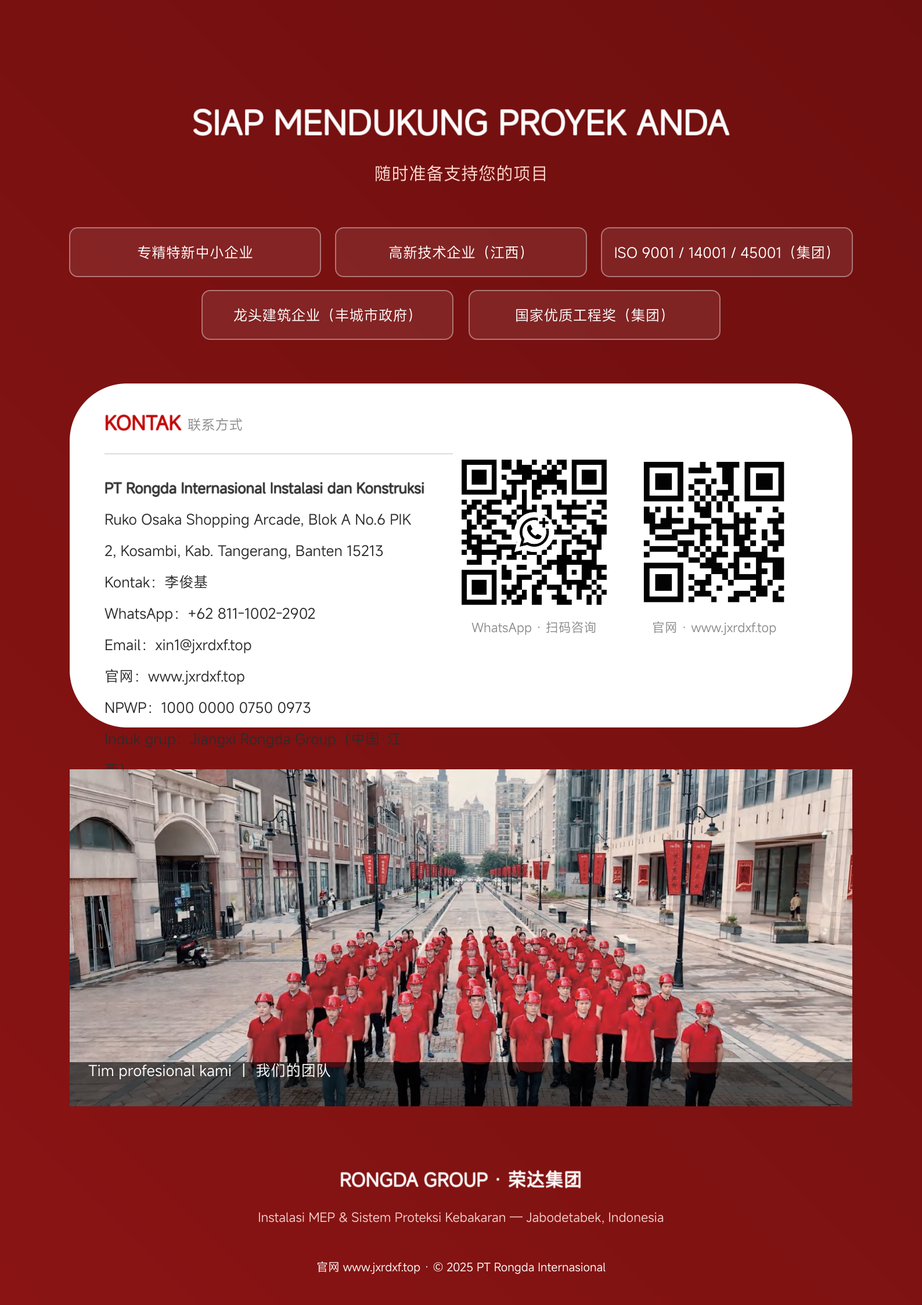
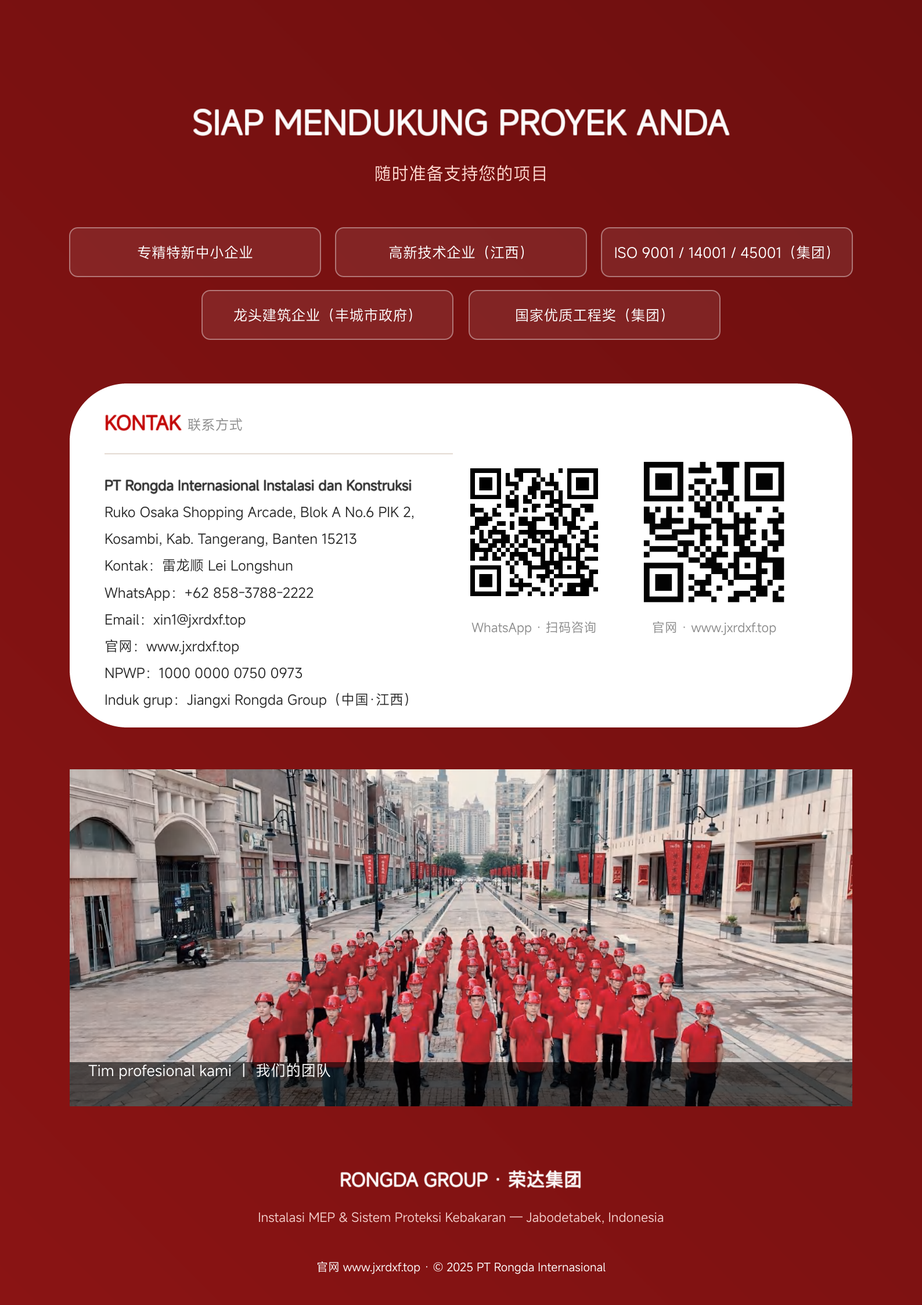
全站双语化（印尼语为主中文为辅）+ 联系人更换雷龙顺 +62 858-3788-2222 + 新WhatsApp二维码

Changed region(s): [[0.0926, 0.3428, 0.4628, 0.5922], [0.4937, 0.3428, 0.6788, 0.4675], [0.3703, 0.5298, 0.4011, 0.561]]

diff --git a/index.html b/index.html
@@ -143,6 +143,8 @@ h2.title{font-size:clamp(22px,3vw,30px);font-weight:800;line-height:1.3}
 h2.title .cn{display:block;font-size:.6em;color:var(--mut);font-weight:600;margin-top:6px;letter-spacing:1px}
 .sec-head{margin-bottom:clamp(30px,4vw,44px)}
 .lead{max-width:720px;color:var(--body);font-size:15px;margin-top:14px}
+/* 双语辅助行：印尼语为主，中文为辅 */
+.bi{display:block;font-size:.86em;color:var(--mut);font-weight:400;margin-top:4px;line-height:1.6}
 
 /* ---------- Tentang ---------- */
 #tentang{background:#fff}
@@ -421,7 +423,7 @@ h2.title .cn{display:block;font-size:.6em;color:var(--mut);font-weight:600;margi
       <a href="#kontak">Kontak 联系</a>
     </nav>
     <button class="menu-btn" id="menuBtn" aria-label="Buka menu" aria-expanded="false"><span></span><span></span><span></span></button>
-    <a class="wa" href="https://wa.me/6281110022902?text=Halo%20Rongda%2C%20saya%20ingin%20konsultasi%20proyek%20instalasi%20proteksi%20kebakaran." target="_blank" rel="noopener">
+    <a class="wa" href="https://wa.me/6285837882222?text=Halo%20Rongda%2C%20saya%20ingin%20konsultasi%20proyek%20instalasi%20proteksi%20kebakaran." target="_blank" rel="noopener">
       <svg viewBox="0 0 24 24" fill="currentColor"><path d="M12 2a10 10 0 0 0-8.6 15.1L2 22l5-1.3A10 10 0 1 0 12 2zm4.6 12.1c-.3-.1-1.5-.7-1.7-.8-.2-.1-.4-.1-.6.1-.2.3-.6.8-.8 1-.1.2-.3.2-.5.1a6.7 6.7 0 0 1-3.3-2.9c-.3-.4 0-.5.1-.7l.4-.5c.1-.2.1-.3 0-.5l-.8-1.9c-.2-.5-.4-.4-.6-.4h-.5c-.2 0-.5.1-.7.3-.9.9-1.1 2.2-.2 3.9a11.6 11.6 0 0 0 4.5 4.2c1.7.8 2.4.9 3.2.7.5-.1 1.5-.6 1.7-1.2.2-.6.2-1.1.1-1.2 0-.1-.2-.2-.4-.2z"/></svg>
       WhatsApp
     </a>
@@ -447,7 +449,7 @@ h2.title .cn{display:block;font-size:.6em;color:var(--mut);font-weight:600;margi
         <span>Pengalaman proyek EBT 2GW di Indonesia</span>
       </div>
       <div class="ctarow">
-        <a class="cta green" href="https://wa.me/6281110022902?text=Halo%20Rongda%2C%20saya%20ingin%20konsultasi%20proyek%20instalasi%20proteksi%20kebakaran." target="_blank" rel="noopener">
+        <a class="cta green" href="https://wa.me/6285837882222?text=Halo%20Rongda%2C%20saya%20ingin%20konsultasi%20proyek%20instalasi%20proteksi%20kebakaran." target="_blank" rel="noopener">
           <svg viewBox="0 0 24 24" fill="currentColor"><path d="M12 2a10 10 0 0 0-8.6 15.1L2 22l5-1.3A10 10 0 1 0 12 2zm4.6 12.1c-.3-.1-1.5-.7-1.7-.8-.2-.1-.4-.1-.6.1-.2.3-.6.8-.8 1-.1.2-.3.2-.5.1a6.7 6.7 0 0 1-3.3-2.9c-.3-.4 0-.5.1-.7l.4-.5c.1-.2.1-.3 0-.5l-.8-1.9c-.2-.5-.4-.4-.6-.4h-.5c-.2 0-.5.1-.7.3-.9.9-1.1 2.2-.2 3.9a11.6 11.6 0 0 0 4.5 4.2c1.7.8 2.4.9 3.2.7.5-.1 1.5-.6 1.7-1.2.2-.6.2-1.1.1-1.2 0-.1-.2-.2-.4-.2z"/></svg>
           Konsultasi via WhatsApp
         </a>
@@ -516,13 +518,13 @@ h2.title .cn{display:block;font-size:.6em;color:var(--mut);font-weight:600;margi
       <h2 class="title">Perjalanan 27 Tahun Rongda<span class="cn">集团发展历程</span></h2>
     </div>
     <ol class="timeline reveal">
-      <li><span class="year">1998</span><p>消防器材销售与维修起步 —— 集团事业的起点。Awal usaha: penjualan &amp; servis peralatan pemadam kebakaran.</p></li>
-      <li><span class="year">2010</span><p>江西荣达安装工程有限公司成立，正式进入消防工程安装领域。</p></li>
-      <li><span class="year">2016</span><p>营业额突破 1.6 亿元。</p></li>
-      <li><span class="year">2018</span><p>成立消防技术服务公司，业务延伸至检测、维保与技术服务。</p></li>
-      <li><span class="year">2020</span><p>营业额突破 4 亿元。</p></li>
-      <li><span class="year">2022</span><p>成立消防培训学校 · 荣达商学院，保障施工队伍专业化。</p></li>
-      <li class="hl"><span class="year">2025 ★</span><p>成立印尼国际公司（PT Rongda Internasional）—— 集团出海第一站，即本网站主体。</p></li>
+      <li><span class="year">1998</span><p>Awal usaha: penjualan &amp; servis peralatan pemadam kebakaran.<span class="bi">消防器材销售与维修起步 —— 集团事业的起点</span></p></li>
+      <li><span class="year">2010</span><p>Jiangxi Rongda Installation Engineering Co., Ltd. didirikan — masuk ke instalasi proyek proteksi kebakaran.<span class="bi">江西荣达安装工程有限公司成立，正式进入消防工程安装领域</span></p></li>
+      <li><span class="year">2016</span><p>Omzet menembus RMB 160 juta.<span class="bi">营业额突破 1.6 亿元</span></p></li>
+      <li><span class="year">2018</span><p>Mendirikan perusahaan layanan teknis proteksi kebakaran — layanan diperluas ke inspeksi &amp; pemeliharaan.<span class="bi">成立消防技术服务公司，业务延伸至检测、维保与技术服务</span></p></li>
+      <li><span class="year">2020</span><p>Omzet menembus RMB 400 juta.<span class="bi">营业额突破 4 亿元</span></p></li>
+      <li><span class="year">2022</span><p>Mendirikan sekolah pelatihan pemadam kebakaran · Rongda Business School.<span class="bi">成立消防培训学校 · 荣达商学院，保障施工队伍专业化</span></p></li>
+      <li class="hl"><span class="year">2025 ★</span><p>Mendirikan anak perusahaan Indonesia — PT Rongda Internasional（entitas dari situs ini）.<span class="bi">成立印尼国际公司（集团出海第一站，即本网站主体）</span></p></li>
     </ol>
   </div>
 </section>
@@ -555,11 +557,11 @@ h2.title .cn{display:block;font-size:.6em;color:var(--mut);font-weight:600;margi
       <p class="lead">Lima tahap terstandarisasi — setiap tahap memiliki penanggung jawab dan keluaran yang jelas. 五个标准化阶段，每阶段责任人与交付物明确，进度可追踪。</p>
     </div>
     <div class="steps">
-      <div class="step reveal"><span class="sn">01</span><b>Konsultasi &amp; Survei</b><span class="cn">需求沟通与现场勘查</span><p>了解建筑与产线现状，明确安装或整改范围，现场记录并评估。</p></div>
-      <div class="step reveal"><span class="sn">02</span><b>Desain Teknis &amp; Penawaran</b><span class="cn">技术方案与报价</span><p>输出技术方案、材料清单与报价单，确认节点工期。</p></div>
-      <div class="step reveal"><span class="sn">03</span><b>Instalasi</b><span class="cn">施工安装</span><p>标准化施工与过程管控，关键节点留存影像与测试记录。</p></div>
-      <div class="step reveal"><span class="sn">04</span><b>Uji Fungsi &amp; Commissioning</b><span class="cn">调试验收</span><p>联动测试、压力测试与功能验收，问题闭环整改。</p></div>
-      <div class="step reveal"><span class="sn">05</span><b>Serah Terima &amp; Garansi</b><span class="cn">交付与质保</span><p>竣工图、测试记录、操作培训与质保期响应。</p></div>
+      <div class="step reveal"><span class="sn">01</span><b>Konsultasi &amp; Survei</b><span class="cn">需求沟通与现场勘查</span><p>Memahami kondisi gedung &amp; lini produksi, menetapkan lingkup pekerjaan, mencatat kondisi lokasi.<span class="bi">了解建筑与产线现状，明确安装或整改范围，现场记录并评估</span></p></div>
+      <div class="step reveal"><span class="sn">02</span><b>Desain Teknis &amp; Penawaran</b><span class="cn">技术方案与报价</span><p>Menyusun rancangan teknis, Bill of Quantity &amp; penawaran harga; mengonfirmasi jadwal tahapan.<span class="bi">输出技术方案、材料清单与报价单，确认节点工期</span></p></div>
+      <div class="step reveal"><span class="sn">03</span><b>Instalasi</b><span class="cn">施工安装</span><p>Konstruksi terstandarisasi dengan kontrol proses; dokumentasi foto &amp; catatan uji di setiap titik kunci.<span class="bi">标准化施工与过程管控，关键节点留存影像与测试记录</span></p></div>
+      <div class="step reveal"><span class="sn">04</span><b>Uji Fungsi &amp; Commissioning</b><span class="cn">调试验收</span><p>Uji fungsi terpadu, uji tekanan &amp; serah terima fungsi; setiap temuan ditutup hingga tuntas.<span class="bi">联动测试、压力测试与功能验收，问题闭环整改</span></p></div>
+      <div class="step reveal"><span class="sn">05</span><b>Serah Terima &amp; Garansi</b><span class="cn">交付与质保</span><p>As-built drawing, catatan uji, pelatihan operasi &amp; respons masa garansi.<span class="bi">竣工图、测试记录、操作培训与质保期响应</span></p></div>
     </div>
   </div>
 </section>
@@ -612,113 +614,113 @@ h2.title .cn{display:block;font-size:.6em;color:var(--mut);font-weight:600;margi
     </div>
     <div class="pj2 reveal">
       <div>
-        <div class="pt"><span>印尼业绩</span><small>Karawang, Jawa Barat · 2025</small></div>
+        <div class="pt"><span>Proyek Indonesia</span><small>Karawang, Jawa Barat · 2025</small></div>
         <h3>Pabrik Pemotongan Wafer Haojuxing<span class="id">海钜星单晶切片厂房 · 卡拉旺园区（西爪哇）</span></h3>
-        <p class="desc">Pabrik pemotongan wafer monokristal 2GW（单晶 + 切片）di kawasan industri Karawang — 总建筑面积 30,139 ㎡：1 栋主厂房（27,172 ㎡，层高 21.8 m）+ 7 栋配套设施（含 20kV 开关站、危化品库、氩气回收站、消防水泵房等）。项目建成后将成为东南亚首个 GW 级单晶切片基地，填补印尼光伏产业链上游空白。</p>
+        <p class="desc">Pabrik pemotongan wafer monokristal 2GW（单晶 + 切片）di kawasan industri Karawang — total luas 30,139 ㎡: 1 pabrik utama（27,172 ㎡, tinggi 21,8 m）+ 7 bangunan pendukung（20kV switching station, gudang bahan kimia, stasiun daur ulang argon, ruang pompa kebakaran, dll.）. Setelah selesai menjadi basis wafer monokristal skala GW pertama di Asia Tenggara.<span class="bi">卡拉旺园区单晶切片厂房：总建筑面积 30,139 ㎡，主厂房 1 栋 + 配套 7 栋，建成后为东南亚首个 GW 级单晶切片基地，填补印尼光伏产业链上游空白</span></p>
       </div>
       <ul class="facts">
-        <li><b>施工范围</b><span>消防水系统 · 消防电系统 · 循环水池防水 · 室外强弱电管网</span></li>
-        <li><b>单体构成</b><span>主厂房 1 栋（27,172 ㎡ · 层高 21.8 m）+ 配套设施 7 栋</span></li>
-        <li><b>总建筑面积</b><span>30,139 ㎡</span></li>
-        <li><b>车间配置</b><span>2GW 单晶 + 2GW 切片车间</span></li>
-        <li><b>业主</b><span>江苏海钜星新能</span></li>
+        <li><b>Lingkup 施工范围</b><span>Sistem proteksi air &amp; listrik（消防水/电系统）· waterproofing kolam resirkulasi（循环水池防水）· utilitas listrik luar ruangan（室外强弱电管网）</span></li>
+        <li><b>Komposisi 单体构成</b><span>Pabrik utama 1（27,172 ㎡ · tinggi 21,8 m）+ 7 bangunan pendukung（主厂房 1 栋 + 配套设施 7 栋）</span></li>
+        <li><b>Total luas 总建筑面积</b><span>30,139 ㎡</span></li>
+        <li><b>Konfigurasi 车间配置</b><span>Workshop monokristal 2GW + pemotongan wafer 2GW（2GW 单晶 + 2GW 切片）</span></li>
+        <li><b>Pemilik 业主</b><span>Jiangsu Haojuxing New Energy（江苏海钜星新能）</span></li>
       </ul>
     </div>
     <div class="pj2 reveal">
       <div>
-        <div class="pt"><span>印尼业绩</span><small>Karawang, Jawa Barat · 2026</small></div>
+        <div class="pt"><span>Proyek Indonesia</span><small>Karawang, Jawa Barat · 2026</small></div>
         <h3>Pabrik Manufaktur Cerdas Everpro — Instalasi MEP<span class="id">长芯盛（Everpro）印尼智能制造基地 · 办公楼机电安装</span></h3>
-        <p class="desc">卡拉旺（Karawang）智能制造基地办公楼机电安装工程：火灾自动报警（烟感 / 温感 / 手报 / 声光）、应急疏散、桥架敷设、消火栓、自动喷淋、空调及新风系统的安装与调试，含配套水电安装，包消防验收。分期实施，按施工图纸总价包干。</p>
+        <p class="desc">Instalasi MEP gedung kantor basis manufaktur cerdas Everpro di Karawang: alarm kebakaran（烟感/温感/手报/声光）, sistem evakuasi darurat, tray kabel, hidran, sprinkler, AC &amp; sistem ventilasi — termasuk instalasi plumbing-kelistrikan kantor dan uji inspeksi kebakaran. Dilaksanakan bertahap dengan harga lump-sum berdasarkan gambar kerja.<span class="bi">卡拉旺智能制造基地办公楼机电安装：火灾自动报警、应急疏散、桥架、消火栓、喷淋、空调新风系统安装调试，含配套水电，包消防验收，按图总价包干</span></p>
       </div>
       <ul class="facts">
-        <li><b>施工范围</b><span>火灾报警 · 应急疏散 · 桥架 · 消火栓 · 喷淋 · 空调 · 新风</span></li>
-        <li><b>承包方式</b><span>按图总价包干 · 含消防验收</span></li>
-        <li><b>项目地点</b><span>Karawang 卡拉旺</span></li>
-        <li><b>工期</b><span>167 日历天 · 2026 年</span></li>
+        <li><b>Lingkup 施工范围</b><span>Alarm kebakaran · evakuasi · tray kabel · hidran · sprinkler · AC · ventilasi（火灾报警·应急疏散·桥架·消火栓·喷淋·空调·新风）</span></li>
+        <li><b>Skema 承包方式</b><span>Harga lump-sum per gambar kerja · termasuk uji inspeksi kebakaran（按图总价包干·含消防验收）</span></li>
+        <li><b>Lokasi 项目地点</b><span>Karawang, Jawa Barat（卡拉旺，西爪哇）</span></li>
+        <li><b>Jangka waktu 工期</b><span>167 hari kalender · 2026（167 日历天 · 2026 年）</span></li>
       </ul>
     </div>
     <div class="pj2 reveal">
       <div>
-        <div class="pt"><span>印尼业绩</span><small>Klien: PT. Leeco Indonesia</small></div>
+        <div class="pt"><span>Proyek Indonesia</span><small>Klien: PT. Leeco Indonesia</small></div>
         <h3>Instalasi MEP Office &amp; Workshop Leeco<span class="id">印尼乐科（PT. Leeco Indonesia）厂房办公室机电安装</span></h3>
-        <p class="desc">PT. Leeco Indonesia 厂房及办公室机电安装工程：电气系统、机械与管道（MEP）安装施工，含安装人工、机具与耗材配套，按进度节点分阶段验收。</p>
+        <p class="desc">Instalasi MEP untuk pabrik &amp; kantor PT. Leeco Indonesia: sistem kelistrikan, mekanikal &amp; plumbing — termasuk tenaga kerja instalasi, peralatan &amp; material habis pakai, dengan acceptance bertahap per milestone progres.</p>
       </div>
       <ul class="facts">
-        <li><b>施工范围</b><span>电气 · 机械 · 管道（MEP）</span></li>
-        <li><b>承包内容</b><span>安装人工 + 机具 + 耗材</span></li>
-        <li><b>项目业主</b><span>PT. Leeco Indonesia</span></li>
-        <li><b>工期</b><span>约 4 个月（5 月 – 9 月）</span></li>
+        <li><b>Lingkup 施工范围</b><span>Listrik · mekanikal · plumbing（电气·机械·管道）</span></li>
+        <li><b>Cakupan 承包内容</b><span>Tenaga kerja + peralatan + consumable（安装人工 + 机具 + 耗材）</span></li>
+        <li><b>Klien 项目业主</b><span>PT. Leeco Indonesia</span></li>
+        <li><b>Jangka waktu 工期</b><span>± 4 bulan（Mei–September）（约 4 个月）</span></li>
       </ul>
     </div>
     <div class="pgrid">
       <div class="pj reveal">
-        <div class="pt"><span>印尼业绩</span><small>长芯盛 Everpro</small></div>
+        <div class="pt"><span>Proyek Indonesia</span><small>长芯盛 Everpro</small></div>
         <b>Perbaikan &amp; Rectifikasi Pabrik Everpro<span class="id">长芯盛电子整改</span></b>
-        <p>电子厂房整改服务。</p>
-        <div class="scope">Lingkup: 电子厂房整改</div>
+        <p>Layanan rectifikasi pabrik elektronik.</p>
+        <div class="scope">Lingkup: Rectifikasi pabrik elektronik（电子厂房整改）</div>
       </div>
       <div class="pj reveal">
-        <div class="pt"><span>印尼业绩</span><small>厂房</small></div>
+        <div class="pt"><span>Proyek Indonesia</span><small>Pabrik · 厂房</small></div>
         <b>Perbaikan &amp; Rectifikasi Alarm Otomatis SEC<span class="id">SEC 自动报警维修整改项目</span></b>
-        <p>火灾自动报警系统的维修与整改。</p>
-        <div class="scope">Lingkup: 自动报警 · 维修整改</div>
+        <p>Perbaikan &amp; rectifikasi sistem alarm kebakaran otomatis.</p>
+        <div class="scope">Lingkup: Alarm otomatis · perbaikan（自动报警·维修整改）</div>
       </div>
       <div class="pj reveal">
-        <div class="pt"><span>印尼业绩</span><small>Klien: Sailun 赛轮轮胎</small></div>
+        <div class="pt"><span>Proyek Indonesia</span><small>Klien: Sailun 赛轮轮胎</small></div>
         <b>Pengadaan Peralatan Sailun Tire Indonesia<span class="id">印尼赛轮轮胎采购项目</span></b>
-        <p>轮胎生产基地设备与物资采购。</p>
-        <div class="scope">Lingkup: 采购</div>
+        <p>Pengadaan peralatan &amp; material untuk basis produksi ban.</p>
+        <div class="scope">Lingkup: Pengadaan（采购）</div>
       </div>
       <div class="pj reveal">
-        <div class="pt"><span>印尼业绩</span><small>厂房</small></div>
+        <div class="pt"><span>Proyek Indonesia</span><small>Pabrik · 厂房</small></div>
         <b>Pabrik Tahap 5 Changfei<span class="id">长飞五期厂房</span></b>
-        <p>五期厂房项目。</p>
-        <div class="scope">Lingkup: 厂房项目</div>
+        <p>Proyek pembangunan pabrik tahap kelima.</p>
+        <div class="scope">Lingkup: Proyek pabrik（厂房项目）</div>
       </div>
       <div class="pj reveal">
-        <div class="pt"><span>印尼业绩</span><small>厂房</small></div>
+        <div class="pt"><span>Proyek Indonesia</span><small>Pabrik · 厂房</small></div>
         <b>Proyek Trading Pabrik Prima<span class="id">Prima 厂房贸易项目</span></b>
-        <p>厂房贸易项目。</p>
-        <div class="scope">Lingkup: 贸易 · 供应</div>
+        <p>Proyek trading &amp; suplai untuk pabrik.</p>
+        <div class="scope">Lingkup: Trading &amp; suplai（贸易·供应）</div>
       </div>
       <div class="pj reveal">
-        <div class="pt"><span>印尼业绩</span><small>厂房</small></div>
+        <div class="pt"><span>Proyek Indonesia</span><small>Pabrik · 厂房</small></div>
         <b>Proyek Proteksi Kebakaran "Liangyou"<span class="id">良友项目消防工程</span></b>
-        <p>良友项目消防工程施工。</p>
-        <div class="scope">Lingkup: 消防工程</div>
+        <p>Konstruksi sistem proteksi kebakaran proyek Liangyou.</p>
+        <div class="scope">Lingkup: Proteksi kebakaran（消防工程）</div>
       </div>
     </div>
     <h3 class="subhead reveal">Rekam Jejak Grup di China<span class="en">集团国内代表项目</span></h3>
     <div class="pgrid">
       <div class="pj reveal">
-        <div class="pt"><span>集团国内业绩</span><small>Hunan, China</small></div>
+        <div class="pt"><span>Rekam Jejak Grup</span><small>Hunan, China</small></div>
         <b>Proyek PLTG Hengdong<span class="id">湘投国际衡东燃气发电项目</span></b>
-        <p>集团负责该燃气发电 EPC 项目的消防工程。</p>
-        <div class="scope">Lingkup: 消防工程 · 总投资 24.8 亿元</div>
+        <p>Grup bertanggung jawab atas pekerjaan proteksi kebakaran proyek EPC PLTG ini.</p>
+        <div class="scope">Lingkup: Proteksi kebakaran · investasi RMB 2,48 miliar（消防工程·总投资 24.8 亿元）</div>
       </div>
       <div class="pj reveal">
-        <div class="pt"><span>集团国内业绩</span><small>Fengcheng, Jiangxi</small></div>
+        <div class="pt"><span>Rekam Jejak Grup</span><small>Fengcheng, Jiangxi</small></div>
         <b>Cleanroom SMT Fengcheng<span class="id">丰城电子信息产业园 SMT 洁净车间</span></b>
-        <p>极早期烟雾探测 + 气体灭火系统，服务电子信息园标准厂房。</p>
-        <div class="scope">Lingkup: 极早期探测 · 气体灭火</div>
+        <p>Deteksi asap sangat dini + sistem gas pemadam untuk cleanroom SMT kawasan elektronik.</p>
+        <div class="scope">Lingkup: Deteksi dini · gas pemadam（极早期探测·气体灭火）</div>
       </div>
       <div class="pj reveal">
-        <div class="pt"><span>集团国内业绩</span><small>Jinxian, Jiangxi</small></div>
+        <div class="pt"><span>Rekam Jejak Grup</span><small>Jinxian, Jiangxi</small></div>
         <b>Kawasan Pabrik Standar Jinxian — Blok D<span class="id">进贤产业园标准厂房 D 区</span></b>
-        <p>火灾报警、喷淋、消火栓及园区市政消防管网。</p>
-        <div class="scope">Lingkup: 报警 · 喷淋 · 消火栓 · 市政管网</div>
+        <p>Alarm kebakaran, sprinkler, hidran &amp; jaringan pipa komunal kawasan.</p>
+        <div class="scope">Lingkup: Alarm · sprinkler · hidran · jaringan komunal（报警·喷淋·消火栓·市政管网）</div>
       </div>
       <div class="pj reveal">
-        <div class="pt"><span>集团国内业绩</span><small>Nanchang, Jiangxi</small></div>
+        <div class="pt"><span>Rekam Jejak Grup</span><small>Nanchang, Jiangxi</small></div>
         <b>Terowongan Utilitas Luoyangdonglu<span class="id">洛阳东路综合管廊 · 江西首座四舱综合管廊</span></b>
-        <p>全长 3643 米，投资约 20 亿元，配套消防与机电安装。</p>
-        <div class="scope">Lingkup: 消防 + 机电安装 · 3643 m</div>
+        <p>Utilitas bawah tanah empat-ruang pertama di Jiangxi, panjang 3.643 m, investasi ± RMB 2 miliar — termasuk proteksi kebakaran &amp; instalasi MEP.</p>
+        <div class="scope">Lingkup: Proteksi kebakaran + MEP · 3.643 m（消防+机电安装·3643 米）</div>
       </div>
       <div class="pj reveal">
-        <div class="pt"><span>集团国内业绩</span><small>Shantou, Guangdong · 2024.11</small></div>
+        <div class="pt"><span>Rekam Jejak Grup</span><small>Shantou, Guangdong · 2024.11</small></div>
         <b>Pangkalan Uji Turbin Angin Laut Shantou<span class="id">汕头风电临海试验基地</span></b>
-        <p>承接服务海上风电检测平台，临海环境的消防与机电工程实践。</p>
-        <div class="scope">Lingkup: 消防与机电工程 · 临海环境</div>
+        <p>Platform uji turbin angin laut — praktik proteksi kebakaran &amp; MEP di lingkungan pesisir.</p>
+        <div class="scope">Lingkup: Proteksi kebakaran &amp; MEP · pesisir（消防与机电工程·临海环境）</div>
       </div>
     </div>
     <p class="proj-note reveal">Catatan: proyek di China adalah rekam jejak Grup Rongda di pasar domestik（集团国内业绩），用于说明集团工程能力；印尼本地业务以实际承接范围为准。</p>
@@ -731,18 +733,18 @@ h2.title .cn{display:block;font-size:.6em;color:var(--mut);font-weight:600;margi
     <div class="sec-head reveal">
       <span class="kicker">SMART FIRE PROTECTION</span>
       <h2 class="title">Smart Fire Protection ala Rongda<span class="cn">智慧消防 · 集团数字化服务能力</span></h2>
-      <p class="lead">与浙江大华战略合作，建设南昌、丰城、赣州、深圳四地智慧消防运营中心；依托 22 家分公司、300 余名工程师，形成 30 分钟响应、5 公里覆盖的消防安全托管网络。该能力正随集团出海逐步引入印尼市场。</p>
+      <p class="lead">Kemitraan strategis dengan Zhejiang Dahua — membangun 4 pusat operasi smart fire protection di Nanchang, Fengcheng, Ganzhou &amp; Shenzhen. Didukung 22 kantor cabang dan 300+ insinyur, membentuk jaringan pengelolaan keamanan kebakaran dengan respons 30 menit dan jangkauan 5 km. Kemampuan ini bertahap diperkenalkan ke pasar Indonesia.<span class="bi" style="color:rgba(255,235,229,.55)">与浙江大华战略合作，建设南昌、丰城、赣州、深圳四地智慧消防运营中心；依托 22 家分公司、300 余名工程师，形成 30 分钟响应、5 公里覆盖的消防安全托管网络。该能力正随集团出海逐步引入印尼市场。</span></p>
     </div>
     <div class="smartgrid">
       <div class="smart-nums reveal">
-        <div><b>4</b><span>运营中心 · 南昌 / 丰城 / 赣州 / 深圳</span></div>
-        <div><b>22</b><span>分公司</span></div>
-        <div><b>300+</b><span>工程师</span></div>
-        <div><b>30 分钟</b><span>响应 · 5 公里覆盖</span></div>
+        <div><b>4</b><span>Pusat operasi（运营中心）· Nanchang / Fengcheng / Ganzhou / Shenzhen</span></div>
+        <div><b>22</b><span>Kantor cabang（分公司）</span></div>
+        <div><b>300+</b><span>Insinyur（工程师）</span></div>
+        <div><b>30 menit</b><span>Respons · jangkauan 5 km（30 分钟响应 · 5 公里覆盖）</span></div>
       </div>
       <ul class="smart-proj reveal">
-        <li><small>2024.10 中标 · 集团国内业绩</small><b>中国电信江西智慧消防平台</b><p>物联网数据采集 + 视频监控 + 四防一体，覆盖多类场所的智慧消防管理。</p></li>
-        <li><small>2025.2 · 集团国内业绩</small><b>赣州市市直学校平台</b><p>携手大华建设，覆盖多所中学，实现校园消防集中监测与预警。</p></li>
+        <li><small>2024.10 tender ter menang · rekam jejak Grup（中标 · 集团国内业绩）</small><b>Platform Smart Fire Jiangxi China Telecom（中国电信江西智慧消防平台）</b><p>Akuisisi data IoT + video monitoring + integrasi "empat pertahanan" — pengelolaan smart fire untuk berbagai jenis bangunan.<span class="bi" style="color:rgba(255,235,229,.5)">物联网数据采集 + 视频监控 + 四防一体，覆盖多类场所的智慧消防管理</span></p></li>
+        <li><small>2025.2 · rekam jejak Grup（集团国内业绩）</small><b>Platform Sekolah Kota Ganzhou（赣州市市直学校平台）</b><p>Dibangun bersama Dahua, mencakup banyak sekolah menengah — monitoring &amp; peringatan kebakaran terpusat untuk kampus.<span class="bi" style="color:rgba(255,235,229,.5)">携手大华建设，覆盖多所中学，实现校园消防集中监测与预警</span></p></li>
       </ul>
     </div>
     <p class="smart-note reveal">注：智慧消防项目均为集团国内业绩；印尼本地业务以实际承接范围为准。Kemampuan smart fire Grup bertahap diperkenalkan ke Indonesia.</p>
@@ -777,19 +779,19 @@ h2.title .cn{display:block;font-size:.6em;color:var(--mut);font-weight:600;margi
       <div class="rows reveal">
         <p><b>PT Rongda Internasional Instalasi dan Konstruksi</b></p>
         <p>Ruko Osaka Shopping Arcade, Blok A No.6 PIK 2, Kosambi,<br>Kab. Tangerang, Banten 15213, Indonesia</p>
-        <p>Kontak / 联系人：<b>李俊基</b></p>
-        <p>WhatsApp：<a href="https://wa.me/6281110022902" target="_blank" rel="noopener">+62 811-1002-2902</a>　·　Email：<a href="mailto:xin1@jxrdxf.top">xin1@jxrdxf.top</a></p>
+        <p>Kontak / 联系人：<b>雷龙顺 (Lei Longshun)</b></p>
+        <p>WhatsApp：<a href="https://wa.me/6285837882222" target="_blank" rel="noopener">+62 858-3788-2222</a>　·　Email：<a href="mailto:xin1@jxrdxf.top">xin1@jxrdxf.top</a></p>
         <p>官网 / Situs web：<a href="http://www.jxrdxf.top/" target="_blank" rel="noopener">www.jxrdxf.top</a></p>
         <p>NPWP: 1000 0000 0750 0973</p>
         <p class="hours">Jam operasional 工作时间：Senin–Jumat 周一至周五 · 08.00–17.00 WIB</p>
-        <a class="wacta" href="https://wa.me/6281110022902?text=Halo%20Rongda%2C%20saya%20ingin%20konsultasi%20proyek%20instalasi%20proteksi%20kebakaran." target="_blank" rel="noopener">
+        <a class="wacta" href="https://wa.me/6285837882222?text=Halo%20Rongda%2C%20saya%20ingin%20konsultasi%20proyek%20instalasi%20proteksi%20kebakaran." target="_blank" rel="noopener">
           <svg viewBox="0 0 24 24" fill="currentColor"><path d="M12 2a10 10 0 0 0-8.6 15.1L2 22l5-1.3A10 10 0 1 0 12 2zm4.6 12.1c-.3-.1-1.5-.7-1.7-.8-.2-.1-.4-.1-.6.1-.2.3-.6.8-.8 1-.1.2-.3.2-.5.1a6.7 6.7 0 0 1-3.3-2.9c-.3-.4 0-.5.1-.7l.4-.5c.1-.2.1-.3 0-.5l-.8-1.9c-.2-.5-.4-.4-.6-.4h-.5c-.2 0-.5.1-.7.3-.9.9-1.1 2.2-.2 3.9a11.6 11.6 0 0 0 4.5 4.2c1.7.8 2.4.9 3.2.7.5-.1 1.5-.6 1.7-1.2.2-.6.2-1.1.1-1.2 0-.1-.2-.2-.4-.2z"/></svg>
           Chat WhatsApp 直接咨询
         </a>
       </div>
       <div class="qrs reveal">
-        <div class="qr real"><b>WhatsApp QR</b><img src="media/wa-qr.png" alt="WhatsApp 二维码 荣达印尼">扫码直接发起咨询</div>
-        <div class="qr real"><b>官网 QR</b><img src="media/web-qr.png" alt="官网二维码 www.jxrdxf.top">扫码访问官网</div>
+        <div class="qr real"><b>WhatsApp QR</b><img src="media/wa-qr.png" alt="WhatsApp 二维码 荣达印尼">Scan untuk chat langsung · 扫码直接发起咨询</div>
+        <div class="qr real"><b>官网 QR</b><img src="media/web-qr.png" alt="官网二维码 www.jxrdxf.top">Scan untuk buka situs · 扫码访问官网</div>
       </div>
     </div>
   </div>
@@ -797,7 +799,7 @@ h2.title .cn{display:block;font-size:.6em;color:var(--mut);font-weight:600;margi
 
 <footer class="foot">PT Rongda Internasional Instalasi dan Konstruksi · Anak perusahaan Jiangxi Rongda Group · © 2025</footer>
 
-<a class="fab-wa" href="https://wa.me/6281110022902?text=Halo%20Rongda%2C%20saya%20ingin%20konsultasi%20proyek%20instalasi%20proteksi%20kebakaran." target="_blank" rel="noopener" aria-label="Chat WhatsApp">
+<a class="fab-wa" href="https://wa.me/6285837882222?text=Halo%20Rongda%2C%20saya%20ingin%20konsultasi%20proyek%20instalasi%20proteksi%20kebakaran." target="_blank" rel="noopener" aria-label="Chat WhatsApp">
   <svg viewBox="0 0 24 24"><path d="M12 2a10 10 0 0 0-8.6 15.1L2 22l5-1.3A10 10 0 1 0 12 2zm4.6 12.1c-.3-.1-1.5-.7-1.7-.8-.2-.1-.4-.1-.6.1-.2.3-.6.8-.8 1-.1.2-.3.2-.5.1a6.7 6.7 0 0 1-3.3-2.9c-.3-.4 0-.5.1-.7l.4-.5c.1-.2.1-.3 0-.5l-.8-1.9c-.2-.5-.4-.4-.6-.4h-.5c-.2 0-.5.1-.7.3-.9.9-1.1 2.2-.2 3.9a11.6 11.6 0 0 0 4.5 4.2c1.7.8 2.4.9 3.2.7.5-.1 1.5-.6 1.7-1.2.2-.6.2-1.1.1-1.2 0-.1-.2-.2-.4-.2z"/></svg>
 </a>
 

diff --git a/onepager.html b/onepager.html
@@ -358,11 +358,11 @@ h2 .cn{display:block;font-size:14px;font-weight:400;margin-top:8px;letter-spacin
         <p><b>PT Rongda Internasional Instalasi dan Konstruksi</b></p>
         <p>Ruko Osaka Shopping Arcade, Blok A No.6 PIK 2, Kosambi,<br>Kab. Tangerang, Banten 15213, Indonesia</p>
         <p>NPWP: 1000 0000 0750 0973</p>
-        <p>Kontak / 联系人：<b>李俊基</b></p>
-        <p>WhatsApp：<a href="https://wa.me/6281110022902" target="_blank" rel="noopener" style="color:#fff;font-weight:700">+62 811-1002-2902</a>　·　Email：<a href="mailto:xin1@jxrdxf.top" style="color:#fff;font-weight:700">xin1@jxrdxf.top</a></p>
+        <p>Kontak / 联系人：<b>雷龙顺 (Lei Longshun)</b></p>
+        <p>WhatsApp：<a href="https://wa.me/6285837882222" target="_blank" rel="noopener" style="color:#fff;font-weight:700">+62 858-3788-2222</a>　·　Email：<a href="mailto:xin1@jxrdxf.top" style="color:#fff;font-weight:700">xin1@jxrdxf.top</a></p>
         <p>官网 / Situs web：<a href="http://www.jxrdxf.top/" target="_blank" rel="noopener" style="color:#fff;font-weight:700">www.jxrdxf.top</a></p>
         <p class="hours">Jam operasional 工作时间：Senin–Jumat 周一至周五 · 08.00–17.00 WIB</p>
-        <a class="wacta" href="https://wa.me/6281110022902?text=Halo%20Rongda%2C%20saya%20ingin%20konsultasi%20proyek%20instalasi%20proteksi%20kebakaran." target="_blank" rel="noopener">
+        <a class="wacta" href="https://wa.me/6285837882222?text=Halo%20Rongda%2C%20saya%20ingin%20konsultasi%20proyek%20instalasi%20proteksi%20kebakaran." target="_blank" rel="noopener">
           <svg viewBox="0 0 24 24" fill="currentColor" aria-hidden="true"><path d="M12 2a10 10 0 0 0-8.6 15.1L2 22l5-1.3A10 10 0 1 0 12 2zm0 18.2c-1.6 0-3.1-.4-4.4-1.2l-.3-.2-3 .8.8-2.9-.2-.3A8.2 8.2 0 1 1 12 20.2zm4.6-6.1c-.3-.1-1.5-.7-1.7-.8-.2-.1-.4-.1-.6.1-.2.3-.6.8-.8 1-.1.2-.3.2-.5.1a6.7 6.7 0 0 1-3.3-2.9c-.3-.4 0-.5.1-.7l.4-.5c.1-.2.1-.3 0-.5l-.8-1.9c-.2-.5-.4-.4-.6-.4h-.5c-.2 0-.5.1-.7.3-.9.9-1.1 2.2-.2 3.9a11.6 11.6 0 0 0 4.5 4.2c1.7.8 2.4.9 3.2.7.5-.1 1.5-.6 1.7-1.2.2-.6.2-1.1.1-1.2 0-.1-.2-.2-.4-.2z"/></svg>
           Chat WhatsApp 直接咨询
         </a>
